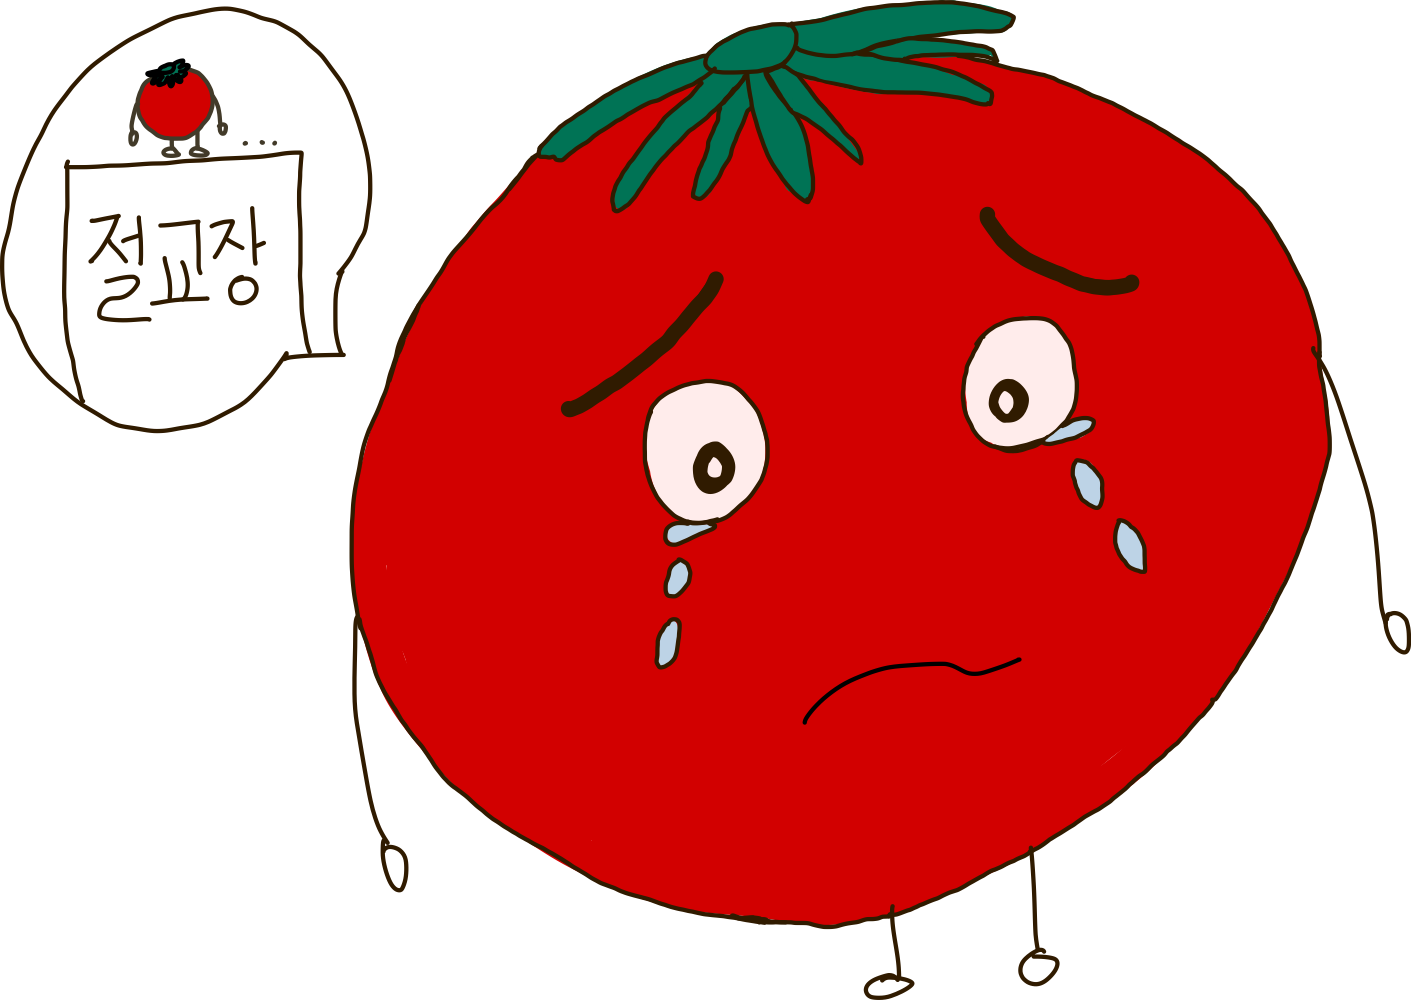
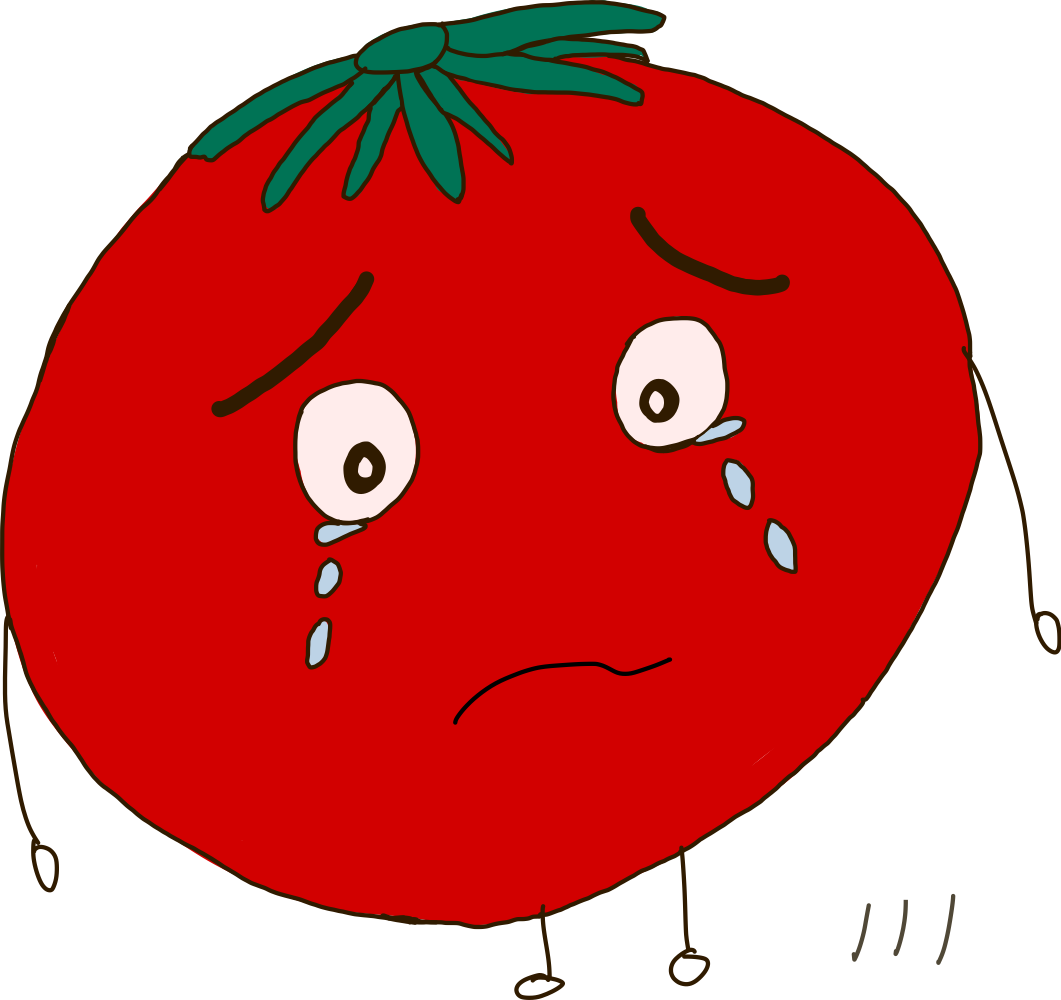
change question images, update input space

diff --git a/frontend/Dofarming/src/components/Question.tsx b/frontend/Dofarming/src/components/Question.tsx
@@ -14,6 +14,8 @@ import {
   CheckboxProps,
   Label,
   SizeTokens,
+  Input,
+  TextArea,
 } from 'tamagui';
 import {
   ListItem,
@@ -31,6 +33,7 @@ export function Page1({ navigation }) {
     <View style={styles.container}>
       <SafeAreaView>
         <Stack width = {380} height = {180}>
+          
           <H3 marginTop={80} textAlign='center'>
             술, 담배, 게임, SNS 중에
             {'\n'} 한 가지 이상이 습관이다 !?
@@ -39,8 +42,8 @@ export function Page1({ navigation }) {
         <Stack alignSelf='center' width = {380} height = {230}>
           <Image
             source={{ uri: require('../assets/img/question1_img.png') }}
-            width={170}
-            height={210}
+            width={270}
+            height={160}
             alignSelf='center'
           />
         </Stack>
@@ -325,7 +328,7 @@ export function Page5({ navigation }) {
           </Button>
           <Button
             theme='green'
-            height={80}
+            height={70}
             width={300}
             alignSelf='center'
             marginBottom={20}
@@ -333,7 +336,10 @@ export function Page5({ navigation }) {
               navigation.navigate('Q6');
             }}
           >
-            더 글로리, 오징어 게임 다 완전 내 스타일! 찾아서 봐야지 !!
+            <YStack alignItems='center'>
+              <Text>더 글로리, 오징어 게임 다 완전 내 스타일!</Text>
+              <Text>찾아서 봐야지 !!</Text>
+            </YStack>
           </Button>
         </Stack>
       </SafeAreaView>
@@ -449,7 +455,7 @@ export function Page7({ navigation }) {
           </Button>
           <Button
             theme='green'
-            height={60}
+            height={70}
             width={300}
             alignSelf='center'
             marginBottom={20}
@@ -457,8 +463,10 @@ export function Page7({ navigation }) {
               navigation.navigate('Q8');
             }}
           >
-            누가 내 얘기를,, ?{'\n'}자습 시간이나 업무 시간 중에 1시간 이상
-            봐요..ㅜ
+            <YStack alignItems='center'>
+              <Text>누가 내 얘기를,, ?</Text>
+              <Text>자습 시간이나 업무 시간 중에 1시간 이상 봐요..ㅜ</Text>
+            </YStack>
           </Button>
         </Stack>
       </SafeAreaView>
@@ -478,13 +486,15 @@ export function Page8({ navigation }) {
         <Stack alignSelf='center' width = {380} height = {230}> 
           <Image
             source={{ uri: require('../assets/img/question8_img.png') }}
-            width={240}
-            height={165}
+            width={200}
+            height={190}
             alignSelf='center'
           />
         </Stack>
         <Stack marginTop={50}>
-          <Text>TextInput 넣을거임</Text>
+          <Stack>
+            <TextArea alignSelf = 'center' size='$4'width = {350} marginBottom = {25}  placeholder="예) 계획을 세우기 어렵다. 스마트폰을 오래 사용한다." />
+          </Stack>
           <Button
             theme='green'
             height={60}
@@ -507,21 +517,24 @@ export function Page9({ navigation }) {
   return (
     <View style={styles.container}>
       <SafeAreaView>
-        <Stack width = {380} height = {180}>
+        <Stack width = {380} height = {180} backgroundColor='red'>
+          
           <H3 marginTop={80} textAlign='center'>
             요즘 내가 가장 즐겨 사용하는 앱이{'\n'}무엇인가요 ?
           </H3>
         </Stack>
         <Stack alignSelf='center' width = {380} height = {230}> 
           <Image
-            source={{ uri: require('../assets/img/main_img.png') }}
-            width={240}
-            height={165}
+            source={{ uri: require('../assets/img/question9_img.png') }}
+            width={220}
+            height={180}
             alignSelf='center'
           />
         </Stack>
         <Stack marginTop={50}>
-          <Text>TextInput 넣을거임</Text>
+          <Stack>
+            <TextArea alignSelf = 'center' size='$4'width = {350} marginBottom = {25}  placeholder="예) 넷플릭스, 인스타그램" />
+          </Stack>
           <Button
             theme='green'
             height={60}
@@ -545,7 +558,7 @@ export function Page10({ navigation }) {
     <View style={styles.container}>
       <SafeAreaView>
         <Stack width = {380} height = {180}>
-          <H3 marginTop={80} textAlign='center' marginBottom={55}>
+          <H3 marginTop={80} textAlign='center'>
             {' '}
             여가 시간에 주로 뭘 하면서{'\n'}시간을 보내나요 ?
           </H3>
@@ -559,7 +572,9 @@ export function Page10({ navigation }) {
           />
         </Stack>
         <Stack marginTop={50}>
-          <Text>TextInput 넣을거임</Text>
+          <Stack>
+            <TextArea alignSelf = 'center' size='$4'width = {350} marginBottom = {25}  placeholder="예) 넷플릭스로 드라마 정주행 하기, 무서운 영화보기" />
+          </Stack>
           <Button
             theme='green'
             height={60}
